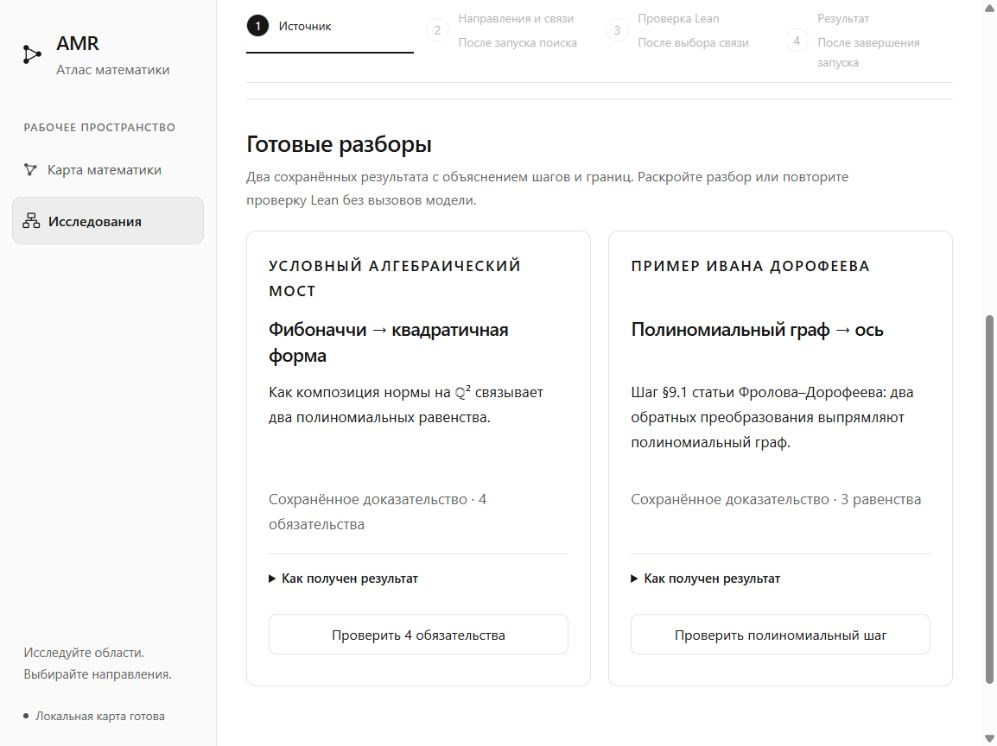
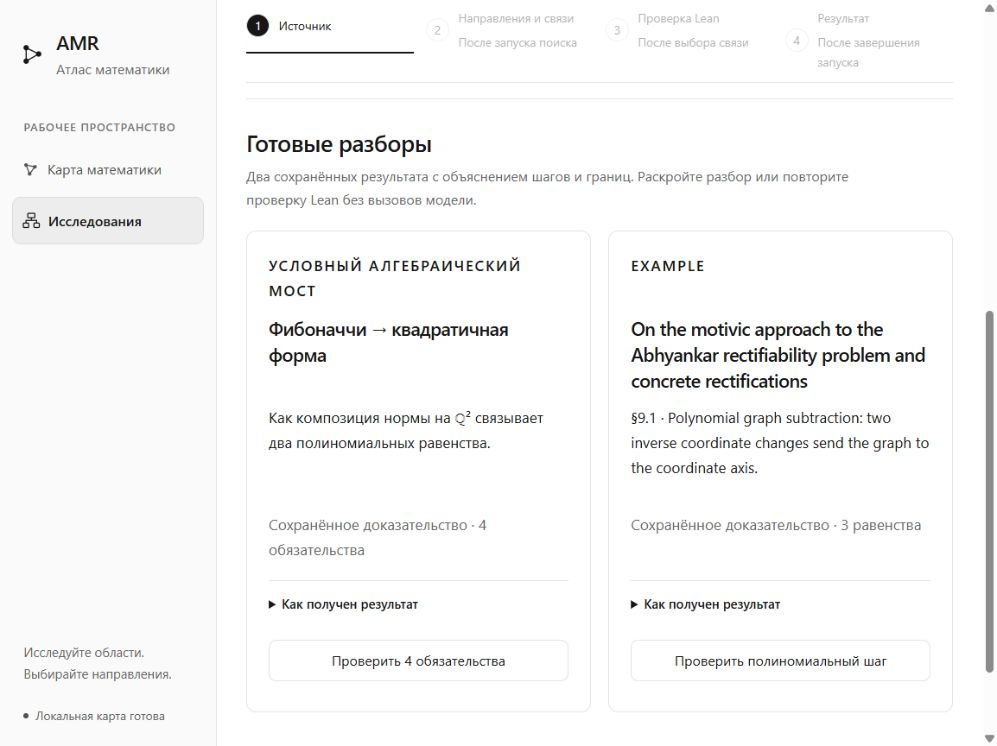
Describe the polynomial example by paper title and step

diff --git a/apps/msc-lean-atlas/web/guided-research.js b/apps/msc-lean-atlas/web/guided-research.js
@@ -19,10 +19,10 @@
       replay:'Кнопка заново проверит сохранённое доказательство против всех четырёх точных обязательств и выполнит аудит аксиом. Это повтор готового результата без Astra.'
     },
     {
-      id:'arxiv_2610_38474_graph_subtraction',title:'Полиномиальный граф → ось',label:'Пример Ивана Дорофеева',
-      summary:'Шаг §9.1 статьи Фролова–Дорофеева: два обратных преобразования выпрямляют полиномиальный граф.',
+      id:'arxiv_2610_38474_graph_subtraction',title:'On the motivic approach to the Abhyankar rectifiability problem and concrete rectifications',label:'Example',
+      summary:'§9.1 · Polynomial graph subtraction: two inverse coordinate changes send the graph to the coordinate axis.',
       saved:'Сохранённое доказательство · 3 равенства',button:'Проверить полиномиальный шаг',
-      source:'Frolov–Dorofeev · On the motivic approach to the Abhyankar rectifiability problem and concrete rectifications · §9.1',url:'https://arxiv.org/html/2610.38474v1#S9.SS1',
+      source:'On the motivic approach to the Abhyankar rectifiability problem and concrete rectifications · §9.1',url:'https://arxiv.org/html/2610.38474v1#S9.SS1',
       steps:[
         ['Источник и подготовка','Из статьи выделен заключительный шаг §9.1. Astra получила доказательство после ошибок Lean и пересмотра графа лемм, имея доступ к подготовленной постановке. Это не слепое переоткрытие.'],
         ['Объекты и переход','Для коммутативного кольца K с единицей и b,w ∈ K[t] преобразование S(x,y,z) = (y, x − b(y), z − w(y)) имеет обратное S⁻¹(T,X,Z) = (X + b(T), T, Z + w(T)).'],

diff --git a/README.md b/README.md
@@ -119,7 +119,7 @@ export ATLAS_LEAN="$(elan which lean)"
 | Разбор | Проверенный результат | Что остаётся за его пределами |
 | --- | --- | --- |
 | **Фибоначчи → квадратичная форма** | Четыре обязательства условного моста над ℚ²: структура, подстановка, перенос, нормализация. | Предпосылки для конкретной последовательности Фибоначчи и вся статья отдельно не проверены. |
-| **Полиномиальный граф → ось · пример Ивана Дорофеева** | Взаимно обратные преобразования и перевод графа `(b(t),t,w(t))` в `(t,0,0)`. | Только заключительный шаг §9.1 статьи Фролова–Дорофеева, без всей мотивной части. |
+| **Example · On the motivic approach to the Abhyankar rectifiability problem and concrete rectifications** | Шаг §9.1: вычитание полиномиального графа, взаимно обратные преобразования и перевод `(b(t),t,w(t))` в координатную ось `(t,0,0)`. | Только заключительный шаг §9.1 статьи Фролова–Дорофеева, без всей мотивной части. |
 
 Нажмите **«Проверить 4 обязательства»** или **«Проверить полиномиальный шаг»**,
 чтобы повторить локальную проверку сохранённого доказательства без Astra.

diff --git a/apps/msc-lean-atlas/RELEASE_NOTES.md b/apps/msc-lean-atlas/RELEASE_NOTES.md
@@ -11,8 +11,11 @@
 - Белый интерфейс с чёрными акцентами: результат, список кандидатов, старт,
   история и обзор атласа. [Референсы Mobbin и реализация](../../docs/UI_MOBBIN_REVIEW.md).
 - Название интерфейса — **AMR — Атлас математики**. Карточки готовых разборов
-  выровнены по высоте и общим строкам; пример Ивана Дорофеева явно подписан
-  как шаг совместной статьи Фролова–Дорофеева. MSC2020 остаётся названием классификации.
+  выровнены по высоте и общим строкам. Вторая карточка имеет пометку **Example**
+  и точное название статьи **On the motivic approach to the Abhyankar rectifiability
+  problem and concrete rectifications**; описание посвящено вычитанию
+  полиномиального графа, обратным преобразованиям и переводу графа в ось в §9.1.
+  MSC2020 остаётся названием классификации.
 - **«Готовые разборы»** на стартовом экране: Фибоначчи → квадратичная форма
   и полиномиальный граф → ось. Источник, механизм, границы и отдельный локальный
   повтор Lean без модели. [Полные разборы](docs/SHOWCASES.md).

diff --git a/apps/msc-lean-atlas/README.md b/apps/msc-lean-atlas/README.md
@@ -21,8 +21,10 @@
 Ниже — подробная справка приложения и отдельно датированные этапы его разработки.
 
 На стартовом экране **«Исследования»** находится раздел **«Готовые разборы»**:
-**«Фибоначчи → квадратичная форма»** и **«Полиномиальный граф → ось»**
-с пометкой **«Пример Ивана Дорофеева»** — шаг совместной статьи Фролова–Дорофеева.
+**«Фибоначчи → квадратичная форма»** и карточка с пометкой **Example** и названием
+**On the motivic approach to the Abhyankar rectifiability problem and concrete
+rectifications**. Вторая карточка объясняет шаг §9.1: вычитание полиномиального
+графа, обратные преобразования и перевод графа в координатную ось.
 Раскройте **«Как получен результат»**, чтобы прочитать источник, механизм,
 точный результат и ограничения. Кнопки **«Проверить 4 обязательства»** и
 **«Проверить полиномиальный шаг»** выполняют локальный повтор без Astra.

diff --git a/apps/msc-lean-atlas/docs/SHOWCASES.md b/apps/msc-lean-atlas/docs/SHOWCASES.md
@@ -70,12 +70,14 @@ lake env python apps/msc-lean-atlas/examples/fibonacci_composition/verify.py
 типы всех четырёх обязательств, хеши и допустимые аксиомы.
 [Подробное воспроизведение](../examples/fibonacci_composition/README.md).
 
-## 2. Пример Ивана Дорофеева: полиномиальный граф → ось
+## 2. Example: On the motivic approach to the Abhyankar rectifiability problem and concrete rectifications
 
 **Источник:** A. S. Frolov, I. S. Dorofeev,
 [On the motivic approach to the Abhyankar rectifiability problem and concrete
 rectifications, arXiv:2610.38474v1, §9.1](https://arxiv.org/html/2610.38474v1#S9.SS1).
-Проверяется заключительный полиномиальный шаг раздела.
+Карточка в интерфейсе показывает пометку **Example** и точное название статьи.
+Проверяется заключительный шаг §9.1: вычитание полиномиального графа,
+обратные преобразования и перевод графа в координатную ось.
 
 **Объекты и механизм.** Для коммутативного кольца `K` с единицей и полиномов
 `b,w ∈ K[t]` рассмотрены преобразования
